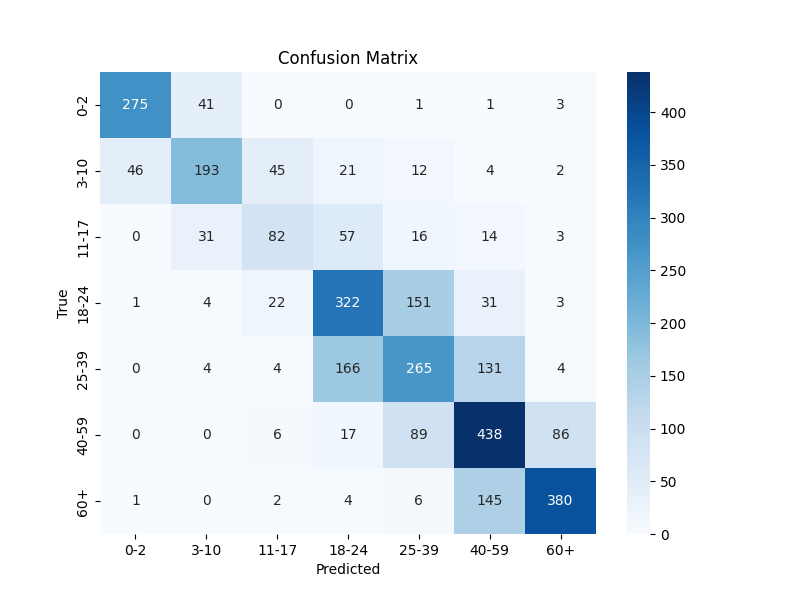
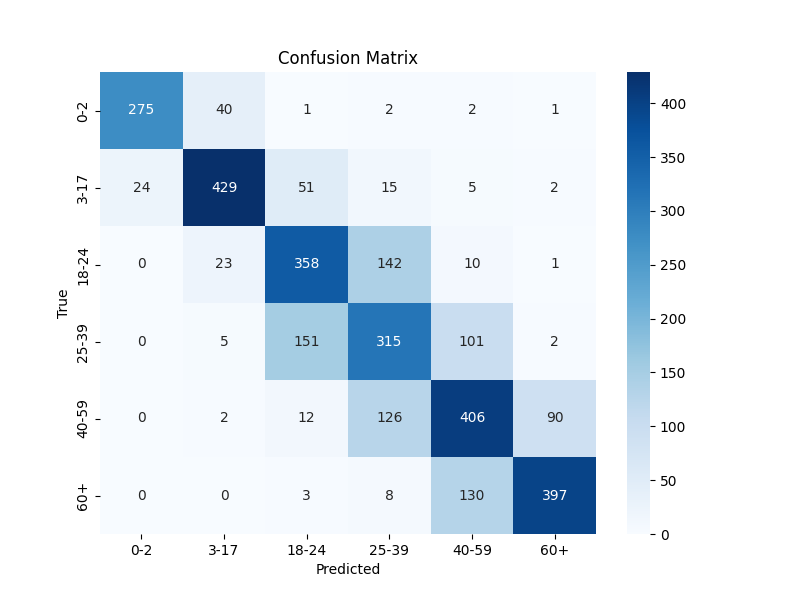
Updated age classes and implemented base model fine tuning

diff --git a/website/src/components/Buttons/RunButton/predictImageAgeGroup.js b/website/src/components/Buttons/RunButton/predictImageAgeGroup.js
@@ -6,7 +6,7 @@ export async function predictImageAgeGroup(selectedImage) {
 	};
 
 	// Define the labels for the age groups
-	const labels = ['0-2', '3-10', '11-17', '18-24', '25-39', '40-59', '60+'];
+	const labels = ['0-2', '3-17', '18-24', '25-39', '40-59', '60+'];
 
 	// Send a POST request to the server with the selected image
 	const response = await fetch(`${process.env.REACT_APP_API_URL}/predict`, {

diff --git a/scripts/main.py b/scripts/main.py
@@ -1,15 +1,19 @@
+import logging
 from load_data import load_data_parallel
 from preprocessing import create_age_classes, undersample_age, split_data
 from plots import plot_age_distribution, plot_images_grid, plot_model_accuracy, plot_confusion_matrix, print_misclassifications
-from model import build_model
+from model import build_model, fine_tune_model
 from train import train_model
+from image_processing import create_datagen
 import numpy as np
 from tensorflow.keras.models import save_model
 from tensorflow.keras.callbacks import EarlyStopping, ReduceLROnPlateau
-from tensorflow.keras.preprocessing.image import ImageDataGenerator
+
+logging.basicConfig(level=logging.INFO)
 
 
-def main():
+def load_and_preprocess_data():
+    logging.info("Loading and preprocessing data...")
     # Load data in parallel
     image_folder = 'UTKFace/UTKFace/'
     df = load_data_parallel(image_folder)
@@ -22,11 +26,11 @@ def main():
 
     # Create age classes and plot age class distribution
     df = create_age_classes(df)
-    # plot_age_distribution(df, 'AgeClass', 6, 'Age Class Distribution')
+    # plot_age_distribution(df, 'AgeClass', 5, 'Age Class Distribution')
 
     # Undersample age class and plot undersampled age class distribution
-    df = undersample_age(df, [(4, 0.7), (5, 0.3)])
-    # plot_age_distribution(df, 'AgeClass', 6, 'Undersampled Age Class Distribution')
+    df = undersample_age(df, [(3, 0.7), (4, 0.3)])
+    # plot_age_distribution(df, 'AgeClass', 5, 'Undersampled Age Class Distribution')
 
     # Plot a grid of images displaying age and age class
     # plot_images_grid(df)
@@ -38,24 +42,23 @@ def main():
     np.save('data/x_test.npy', x_test)
 
     # Print the sizes of the training and testing sets
-    print(f"Training Set Size: {len(x_train)} samples")
-    print(f"Testing Set Size: {len(x_test)} samples")
+    logging.info(f"Training Set Size: {len(x_train)} samples")
+    logging.info(f"Testing Set Size: {len(x_test)} samples")
 
+    return x_train, x_test, y_train, y_test
+
+
+def train_and_evaluate_model(x_train, x_test, y_train, y_test):
+    logging.info("Training and evaluating model...")
     # Build and compile the model
-    model = build_model(input_shape=(200, 200, 3), num_classes=7, learning_rate=0.0001)
+    model = build_model(input_shape=(200, 200, 3), num_classes=6, learning_rate=0.001)
 
     # Define callbacks
     early_stopping = EarlyStopping(monitor='val_loss', patience=10)
     lr_schedule = ReduceLROnPlateau(monitor='val_loss', factor=0.2, patience=5)
 
     # Create an ImageDataGenerator object
-    datagen = ImageDataGenerator(
-        rotation_range=20,  # randomly rotate images in the range (degrees, 0 to 180)
-        width_shift_range=0.2,  # randomly shift images horizontally (fraction of total width)
-        height_shift_range=0.2,  # randomly shift images vertically (fraction of total height)
-        horizontal_flip=True,  # randomly flip images
-        zoom_range=0.2,  # Randomly zoom image
-    )
+    datagen = create_datagen()
 
     # Compute quantities required for featurewise normalization
     datagen.fit(x_train)
@@ -64,12 +67,26 @@ def main():
     trained_model, history = train_model(model, datagen.flow(x_train, y_train, batch_size=32), None, x_test, y_test,
                                          epochs=100, batch_size=32,
                                          callbacks=[early_stopping, lr_schedule])
-    print(f"Training complete. {len(history.history['accuracy'])} epoch trained.")
+    logging.info(f"Training complete. {len(history.history['accuracy'])} epoch trained.")
+
+    # Fine-tune the model
+    model = fine_tune_model(model, learning_rate=0.001)
+
+    # Train the model again with fine-tuning
+    trained_model, history = train_model(model, datagen.flow(x_train, y_train, batch_size=32), None, x_test, y_test,
+                                         epochs=10, batch_size=32,
+                                         callbacks=[early_stopping, lr_schedule])
+    logging.info(f"Fine-tuning complete. {len(history.history['accuracy'])} epoch trained.")
 
     # Evaluate the model
     accuracy = trained_model.evaluate(x_test, y_test)[1]
-    print(f"Validation Accuracy: {accuracy * 100:.2f}%")
+    logging.info(f"Validation Accuracy: {accuracy * 100:.2f}%")
 
+    return trained_model, history
+
+
+def analyse_results(trained_model, history, x_test, y_test):
+    logging.info("Analyzing results...")
     # Get model predictions for the test set
     y_pred_prob = trained_model.predict(x_test)
     y_pred_classes = np.argmax(y_pred_prob, axis=1)
@@ -77,14 +94,24 @@ def main():
     # Plot accuracy over epochs
     plot_model_accuracy(history)
 
-    class_labels = ['0-2', '3-10', '11-17', '18-24', '25-39', '40-59', '60+']
+    class_labels = ['0-2', '3-17', '18-24', '25-39', '40-59', '60+']
 
     # Plot the confusion matrix
     plot_confusion_matrix(y_test, y_pred_classes, class_labels)
 
     # Print misclassifications
     print_misclassifications(y_test, y_pred_classes, class_labels)
-    save_model(model, 'models/resnet50_model.h5')
+    save_model(trained_model, 'models/resnet50_model.h5')
+
+
+def main():
+    try:
+        x_train, x_test, y_train, y_test = load_and_preprocess_data()
+        trained_model, history = train_and_evaluate_model(x_train, x_test, y_train, y_test)
+        analyse_results(trained_model, history, x_test, y_test)
+    except Exception as e:
+        logging.error(f"An error occurred: {e}")
+        raise
 
 
 if __name__ == "__main__":

diff --git a/scripts/app.py b/scripts/app.py
@@ -22,12 +22,13 @@ x_test = np.load(Config.TEST_DATA_PATH)
 
 @app.route('/')
 def home():
+    # Home route, returns a welcome message
     return "Welcome to the backend"
 
 
 @app.route('/get-validation-images/<int:start>/<int:end>', methods=['GET'])
 def get_validation_images(start, end):
-    # Convert images to base64 for transmission
+    # Route to get validation images, converts images to base64 for transmission
     images_base64 = []
     for img in x_test[start:end]:
         img_pil = Image.fromarray(img.astype('uint8'))
@@ -41,30 +42,54 @@ def get_validation_images(start, end):
     return jsonify({'images': images_base64})
 
 
+def decode_image(base64_image):
+    # Function to decode base64 image data to bytes
+    return base64.b64decode(base64_image)
+
+
+def validate_image_size(img_data):
+    # Function to validate if the image size is 5MB or under
+    if len(img_data) > 5 * 1024 * 1024:  # 5MB
+        raise ValueError('Image size should be 5MB or under.')
+
+
+def process_image(img_data):
+    # Function to process the image data (convert to RGB, crop face, resize, reshape)
+    img = Image.open(io.BytesIO(img_data))
+    img = img.convert('RGB')
+    img = crop_face(img)
+    img = img.resize((200, 200))
+    img_array = np.array(img)
+    return img_array.reshape(1, 200, 200, 3)
+
+
+def make_prediction(img_array):
+    # Function to make age classification prediction
+    prediction = model.predict(img_array)
+    predicted_class = np.argmax(prediction[0], axis=0)
+    confidence = prediction[0][predicted_class]
+    return predicted_class, confidence
+
+
 @app.route('/predict', methods=['POST'])
 def predict():
+    # Route to make prediction on the provided image
     try:
-        # Decode image from base64
         data = request.json
         base64_image = data['image']
-        img_data = base64.b64decode(base64_image)
-        img = Image.open(io.BytesIO(img_data))
-        img = img.convert('RGB')
-
-        # Crop face from image
-        img = crop_face(img)
-        # Resize image
-        img = img.resize((200, 200))
-        img_array = np.array(img)
-        img_array = img_array.reshape(1, 200, 200, 3)
-        # Make age classification
-        prediction = model.predict(img_array)
-        predicted_class = np.argmax(prediction[0], axis=0)
-        confidence = prediction[0][predicted_class]
+        img_data = decode_image(base64_image)
+        validate_image_size(img_data)
+        img_array = process_image(img_data)
+        predicted_class, confidence = make_prediction(img_array)
         return jsonify({'prediction': int(predicted_class), 'confidence': float(confidence)})
     except KeyError:
+        # Handle case when image is not provided in the request
         return jsonify({'error': 'Invalid request. Please provide an image.'}), 400
+    except ValueError as e:
+        # Handle case when image size is more than 5MB
+        return jsonify({'error': str(e)}), 400
     except Exception as e:
+        # Handle any other exception that may occur during image processing
         return jsonify({'error': 'An error occurred while processing the image.'}), 500
 
 

diff --git a/scripts/plots.py b/scripts/plots.py
@@ -66,7 +66,7 @@ def plot_model_accuracy(history):
 
 def plot_confusion_matrix(y_true, y_pred, class_labels):
     """
-    Plot the confusion matrix.
+    Plot the confusion matrix and the normalized confusion matrix.
 
     Args:
         y_true (np.ndarray): True labels.
@@ -74,12 +74,27 @@ def plot_confusion_matrix(y_true, y_pred, class_labels):
         class_labels (list): List of classes.
     """
     conf_matrix = confusion_matrix(y_true, y_pred)
+
+    # Plot the original confusion matrix
     plt.figure(figsize=(8, 6))
     sns.heatmap(conf_matrix, annot=True, fmt='d', cmap='Blues', xticklabels=class_labels, yticklabels=class_labels)
     plt.title('Confusion Matrix')
     plt.xlabel('Predicted')
     plt.ylabel('True')
     plt.savefig('plots/confusion_matrix.png')
+    plt.show()
+
+    # Normalize the confusion matrix
+    conf_matrix = conf_matrix.astype('float') / conf_matrix.sum(axis=1)[:, np.newaxis]
+    conf_matrix = np.round(conf_matrix, 4)  # round to 2 decimal places
+
+    # Plot the normalized confusion matrix
+    plt.figure(figsize=(8, 6))
+    sns.heatmap(conf_matrix, annot=True, fmt='.2%', cmap='Blues', xticklabels=class_labels, yticklabels=class_labels)
+    plt.title('Normalized Confusion Matrix')
+    plt.xlabel('Predicted')
+    plt.ylabel('True')
+    plt.savefig('plots/normalized_confusion_matrix.png')
     plt.show()
 
 
@@ -98,7 +113,7 @@ def print_misclassifications(y_true, y_pred, class_labels):
     conf_matrix = confusion_matrix(y_true, y_pred)
 
     # Indices for ages under 18 and over 25
-    under_18_indices = [i for i, label in enumerate(class_labels) if label in ['0-2', '3-10', '11-17']]
+    under_18_indices = [i for i, label in enumerate(class_labels) if label in ['0-2', '3-17']]
     over_25_indices = [i for i, label in enumerate(class_labels) if label in ['25-39', '40-59', '60+']]
 
     # Sum the elements of the confusion matrix that correspond to these indices

diff --git a/scripts/model.py b/scripts/model.py
@@ -27,12 +27,13 @@ def build_model(input_shape, num_classes, learning_rate):
     # Build the model
     model = Sequential([
         base_model,
-        Conv2D(64, (3, 3), activation='relu'),
+        Conv2D(128, (3, 3), activation='relu'),
         MaxPooling2D(pool_size=(2, 2)),
-        Flatten(),
         BatchNormalization(),
         Dropout(dropout_rate),
-        Dense(256, activation='relu'),
+
+        Flatten(),
+        Dense(512, activation='relu'),
         BatchNormalization(),
         Dropout(dropout_rate),
         Dense(num_classes, activation='softmax')
@@ -43,5 +44,22 @@ def build_model(input_shape, num_classes, learning_rate):
                   metrics=['accuracy'])
 
     model.summary()
+    return model
 
+
+def fine_tune_model(model, learning_rate):
+    """
+    Unfreeze the base model and compile the model again for fine-tuning.
+
+    Args:
+        model (tf.keras.models.Model): The model to be fine-tuned.
+        learning_rate (float): The learning rate for the Adam optimizer.
+
+    Returns:
+        tf.keras.models.Model: The fine-tuned model.
+    """
+    print("Starting fine-tuning")
+    model.layers[0].trainable = True
+    model.compile(optimizer=Adam(learning_rate=learning_rate/10), loss='sparse_categorical_crossentropy',
+                  metrics=['accuracy'])
     return model

diff --git a/scripts/image_processing.py b/scripts/image_processing.py
@@ -1,6 +1,8 @@
 from PIL import Image
+from tensorflow.keras.preprocessing.image import ImageDataGenerator
 import cv2
 import numpy as np
+
 
 face_cascade = cv2.CascadeClassifier(cv2.data.haarcascades + 'haarcascade_frontalface_default.xml')
 
@@ -33,3 +35,25 @@ def crop_face(image):
     img = Image.fromarray(cv2.cvtColor(img_cv, cv2.COLOR_BGR2RGB))
 
     return img
+
+
+def create_datagen(rotation_range=20, width_shift_range=0.2, height_shift_range=0.2, horizontal_flip=True):
+    """
+    Create an ImageDataGenerator object with the given parameters.
+
+    Args:
+        rotation_range (int, optional): Degree range for random rotations. Defaults to 20.
+        width_shift_range (float, optional): Range for random horizontal shifts. Defaults to 0.2.
+        height_shift_range (float, optional): Range for random vertical shifts. Defaults to 0.2.
+        horizontal_flip (bool, optional): Whether to randomly flip inputs horizontally. Defaults to True.
+
+    Returns:
+        ImageDataGenerator: The created ImageDataGenerator object.
+    """
+    datagen = ImageDataGenerator(
+        rotation_range=rotation_range,
+        width_shift_range=width_shift_range,
+        height_shift_range=height_shift_range,
+        horizontal_flip=horizontal_flip,
+    )
+    return datagen

diff --git a/scripts/preprocessing.py b/scripts/preprocessing.py
@@ -14,9 +14,9 @@ def create_age_classes(df):
         pd.DataFrame: The DataFrame with an added 'AgeClass' column.
     """
 
-    bins = [0, 2, 10, 17, 24, 39, 59, np.inf]
-    # '0-2', '3-10', '11-17', '18-24', '25-39', '40-59', '60+'
-    labels = [0, 1, 2, 3, 4, 5, 6]
+    bins = [0, 2, 17, 24, 39, 59, np.inf]
+    # '0-2', '3-17', '18-24', '25-39', '40-59', '60+'
+    labels = [0, 1, 2, 3, 4, 5]
     df['AgeClass'] = pd.cut(df['Ages'], bins=bins, labels=labels)
     return df
 
